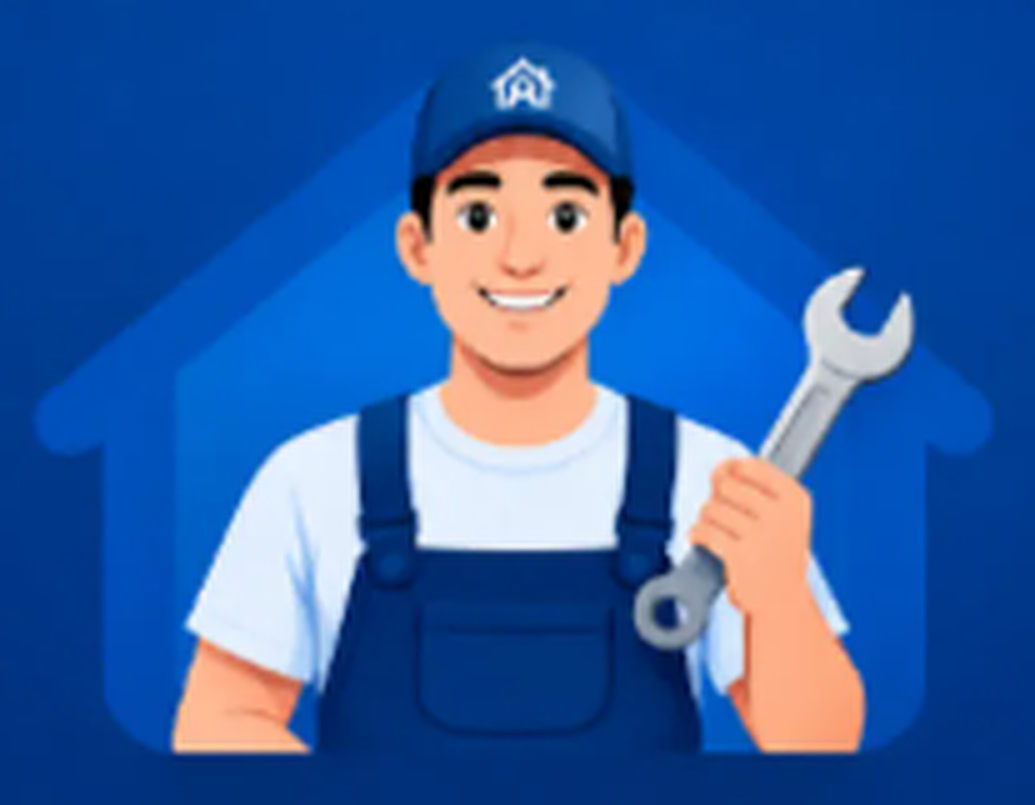
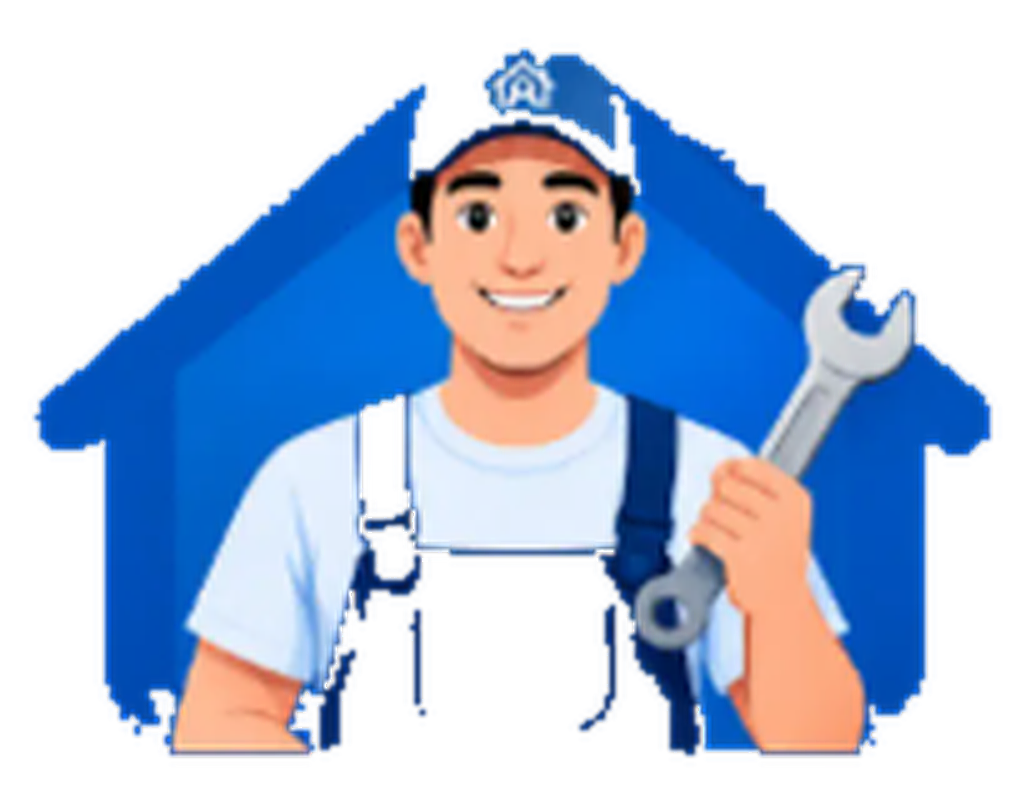
Splash: remove technician background box (seamless blend)
Key out the technician art's flat outer background (keeping the figure,
overalls and the faint house), and drop the raster logo in favour of the
crisp vector HelpZo mark so neither element shows a rectangular seam
against the splash gradient.

Claude-Session: https://claude.ai/code/session_01S7ef6gH5opHyP84AiUnEmG

diff --git a/customer-app/index.html b/customer-app/index.html
@@ -118,18 +118,18 @@
   </defs></svg>
 
   <!-- 01 SPLASH -->
-  <div class="screen on" id="s-splash" style="background:linear-gradient(180deg,#062B7A 0%,#0B3E9E 55%,#1667E8 100%);align-items:center;justify-content:flex-start;text-align:center;padding:0;overflow:hidden;position:relative;">
+  <div class="screen on" id="s-splash" style="background:linear-gradient(180deg,#012a63 0%,#003a8b 42%,#0b4fbb 100%);align-items:center;justify-content:flex-start;text-align:center;padding:0;overflow:hidden;position:relative;">
     <svg viewBox="0 0 100 40" preserveAspectRatio="none" style="position:absolute;bottom:0;left:0;width:100%;height:130px;z-index:1;"><path d="M0 22 C 20 6, 35 34, 55 20 C 72 8, 88 26, 100 16 L100 40 L0 40 Z" fill="#22B24C" opacity=".85"/><path d="M0 30 C 22 16, 40 38, 60 26 C 78 16, 90 30, 100 24 L100 40 L0 40 Z" fill="#1667E8" opacity=".9"/></svg>
-    <div style="flex:1;display:flex;flex-direction:column;align-items:center;justify-content:center;z-index:2;padding:30px 26px;width:100%;">
-      <svg viewBox="0 0 48 48" width="80" height="80">
+    <div style="flex:1;display:flex;flex-direction:column;align-items:center;justify-content:center;z-index:2;padding:24px 26px;width:100%;">
+      <svg viewBox="0 0 48 48" width="78" height="78">
         <path d="M8 15 L24 4 L40 15" fill="none" stroke="#fff" stroke-width="3.4" stroke-linecap="round" stroke-linejoin="round"/>
         <path d="M11 15 V40 H37 V15" fill="none" stroke="#fff" stroke-width="3.4" stroke-linecap="round" stroke-linejoin="round"/>
         <circle cx="20" cy="26" r="6.2" fill="none" stroke="#3FBE4A" stroke-width="3.4"/>
         <path d="M24 30 L33 39" stroke="#3FBE4A" stroke-width="3.8" stroke-linecap="round"/>
       </svg>
-      <div style="font-weight:800;font-size:46px;margin-top:6px;letter-spacing:-1px"><span style="color:#fff">Help</span><span style="color:#3FBE4A">Zo</span></div>
-      <div style="color:rgba(255,255,255,.92);font-size:15px;font-weight:600;margin-top:4px">Your Problem &nbsp;·&nbsp; Our Priority</div>
-      <img src="/person.png" alt="" style="width:80%;max-width:320px;height:auto;display:block;margin:18px auto 14px;border-radius:22px;box-shadow:0 10px 30px rgba(0,0,0,.22);">
+      <div style="font-weight:800;font-size:46px;margin-top:2px;letter-spacing:-1px"><span style="color:#fff">Help</span><span style="color:#3FBE4A">Zo</span></div>
+      <div style="color:rgba(255,255,255,.92);font-size:15px;font-weight:600;margin-top:2px">Your Problem &nbsp;·&nbsp; Our Priority</div>
+      <img src="/person.png" alt="" style="width:86%;max-width:340px;height:auto;display:block;margin:10px auto 8px;">
       <div style="font-size:23px;font-weight:800;color:#fff;line-height:1.15">Find Trusted Local</div>
       <div style="font-size:23px;font-weight:800;color:#3FBE4A;line-height:1.15">Service Providers</div>
       <div style="display:flex;gap:18px;margin-top:14px;color:#fff;font-size:13px;font-weight:600">

diff --git a/provider-app/index.html b/provider-app/index.html
@@ -170,18 +170,18 @@
   </defs></svg>
 
   <!-- 01 SPLASH -->
-  <div class="screen on" id="s-splash" style="background:linear-gradient(180deg,#062B7A 0%,#0B3E9E 55%,#1667E8 100%);align-items:center;justify-content:flex-start;text-align:center;padding:0;overflow:hidden;position:relative;">
+  <div class="screen on" id="s-splash" style="background:linear-gradient(180deg,#012a63 0%,#003a8b 42%,#0b4fbb 100%);align-items:center;justify-content:flex-start;text-align:center;padding:0;overflow:hidden;position:relative;">
     <svg viewBox="0 0 100 40" preserveAspectRatio="none" style="position:absolute;bottom:0;left:0;width:100%;height:130px;z-index:1;"><path d="M0 22 C 20 6, 35 34, 55 20 C 72 8, 88 26, 100 16 L100 40 L0 40 Z" fill="#22B24C" opacity=".85"/><path d="M0 30 C 22 16, 40 38, 60 26 C 78 16, 90 30, 100 24 L100 40 L0 40 Z" fill="#1667E8" opacity=".9"/></svg>
-    <div style="flex:1;display:flex;flex-direction:column;align-items:center;justify-content:center;z-index:2;padding:30px 26px;width:100%;">
+    <div style="flex:1;display:flex;flex-direction:column;align-items:center;justify-content:center;z-index:2;padding:24px 26px;width:100%;">
       <svg viewBox="0 0 48 48" width="82" height="82">
         <path d="M8 15 L24 4 L40 15" fill="none" stroke="#fff" stroke-width="3.4" stroke-linecap="round" stroke-linejoin="round"/>
         <path d="M11 15 V40 H37 V15" fill="none" stroke="#fff" stroke-width="3.4" stroke-linecap="round" stroke-linejoin="round"/>
         <circle cx="20" cy="26" r="6.2" fill="none" stroke="#3FBE4A" stroke-width="3.4"/>
         <path d="M24 30 L33 39" stroke="#3FBE4A" stroke-width="3.8" stroke-linecap="round"/>
       </svg>
-      <div style="font-weight:800;font-size:48px;margin-top:6px;letter-spacing:-1px"><span style="color:#fff">Help</span><span style="color:#3FBE4A">Zo</span></div>
-      <div style="color:rgba(255,255,255,.92);font-size:15px;font-weight:700;margin-top:6px">Work Smart &nbsp;•&nbsp; Earn More</div>
-      <img src="/person.png" alt="" style="width:82%;max-width:330px;height:auto;display:block;margin:18px auto 14px;border-radius:22px;box-shadow:0 10px 30px rgba(0,0,0,.22);">
+      <div style="font-weight:800;font-size:48px;margin-top:2px;letter-spacing:-1px"><span style="color:#fff">Help</span><span style="color:#3FBE4A">Zo</span></div>
+      <div style="color:rgba(255,255,255,.92);font-size:15px;font-weight:700;margin-top:2px">Work Smart &nbsp;•&nbsp; Earn More</div>
+      <img src="/person.png" alt="" style="width:88%;max-width:350px;height:auto;display:block;margin:10px auto 8px;">
       <div style="font-size:22px;font-weight:800;color:#fff">Provider App</div>
       <div style="font-size:14px;color:rgba(255,255,255,.9);margin-top:4px">Grow Your Business</div>
       <div class="loader"><span></span></div>
